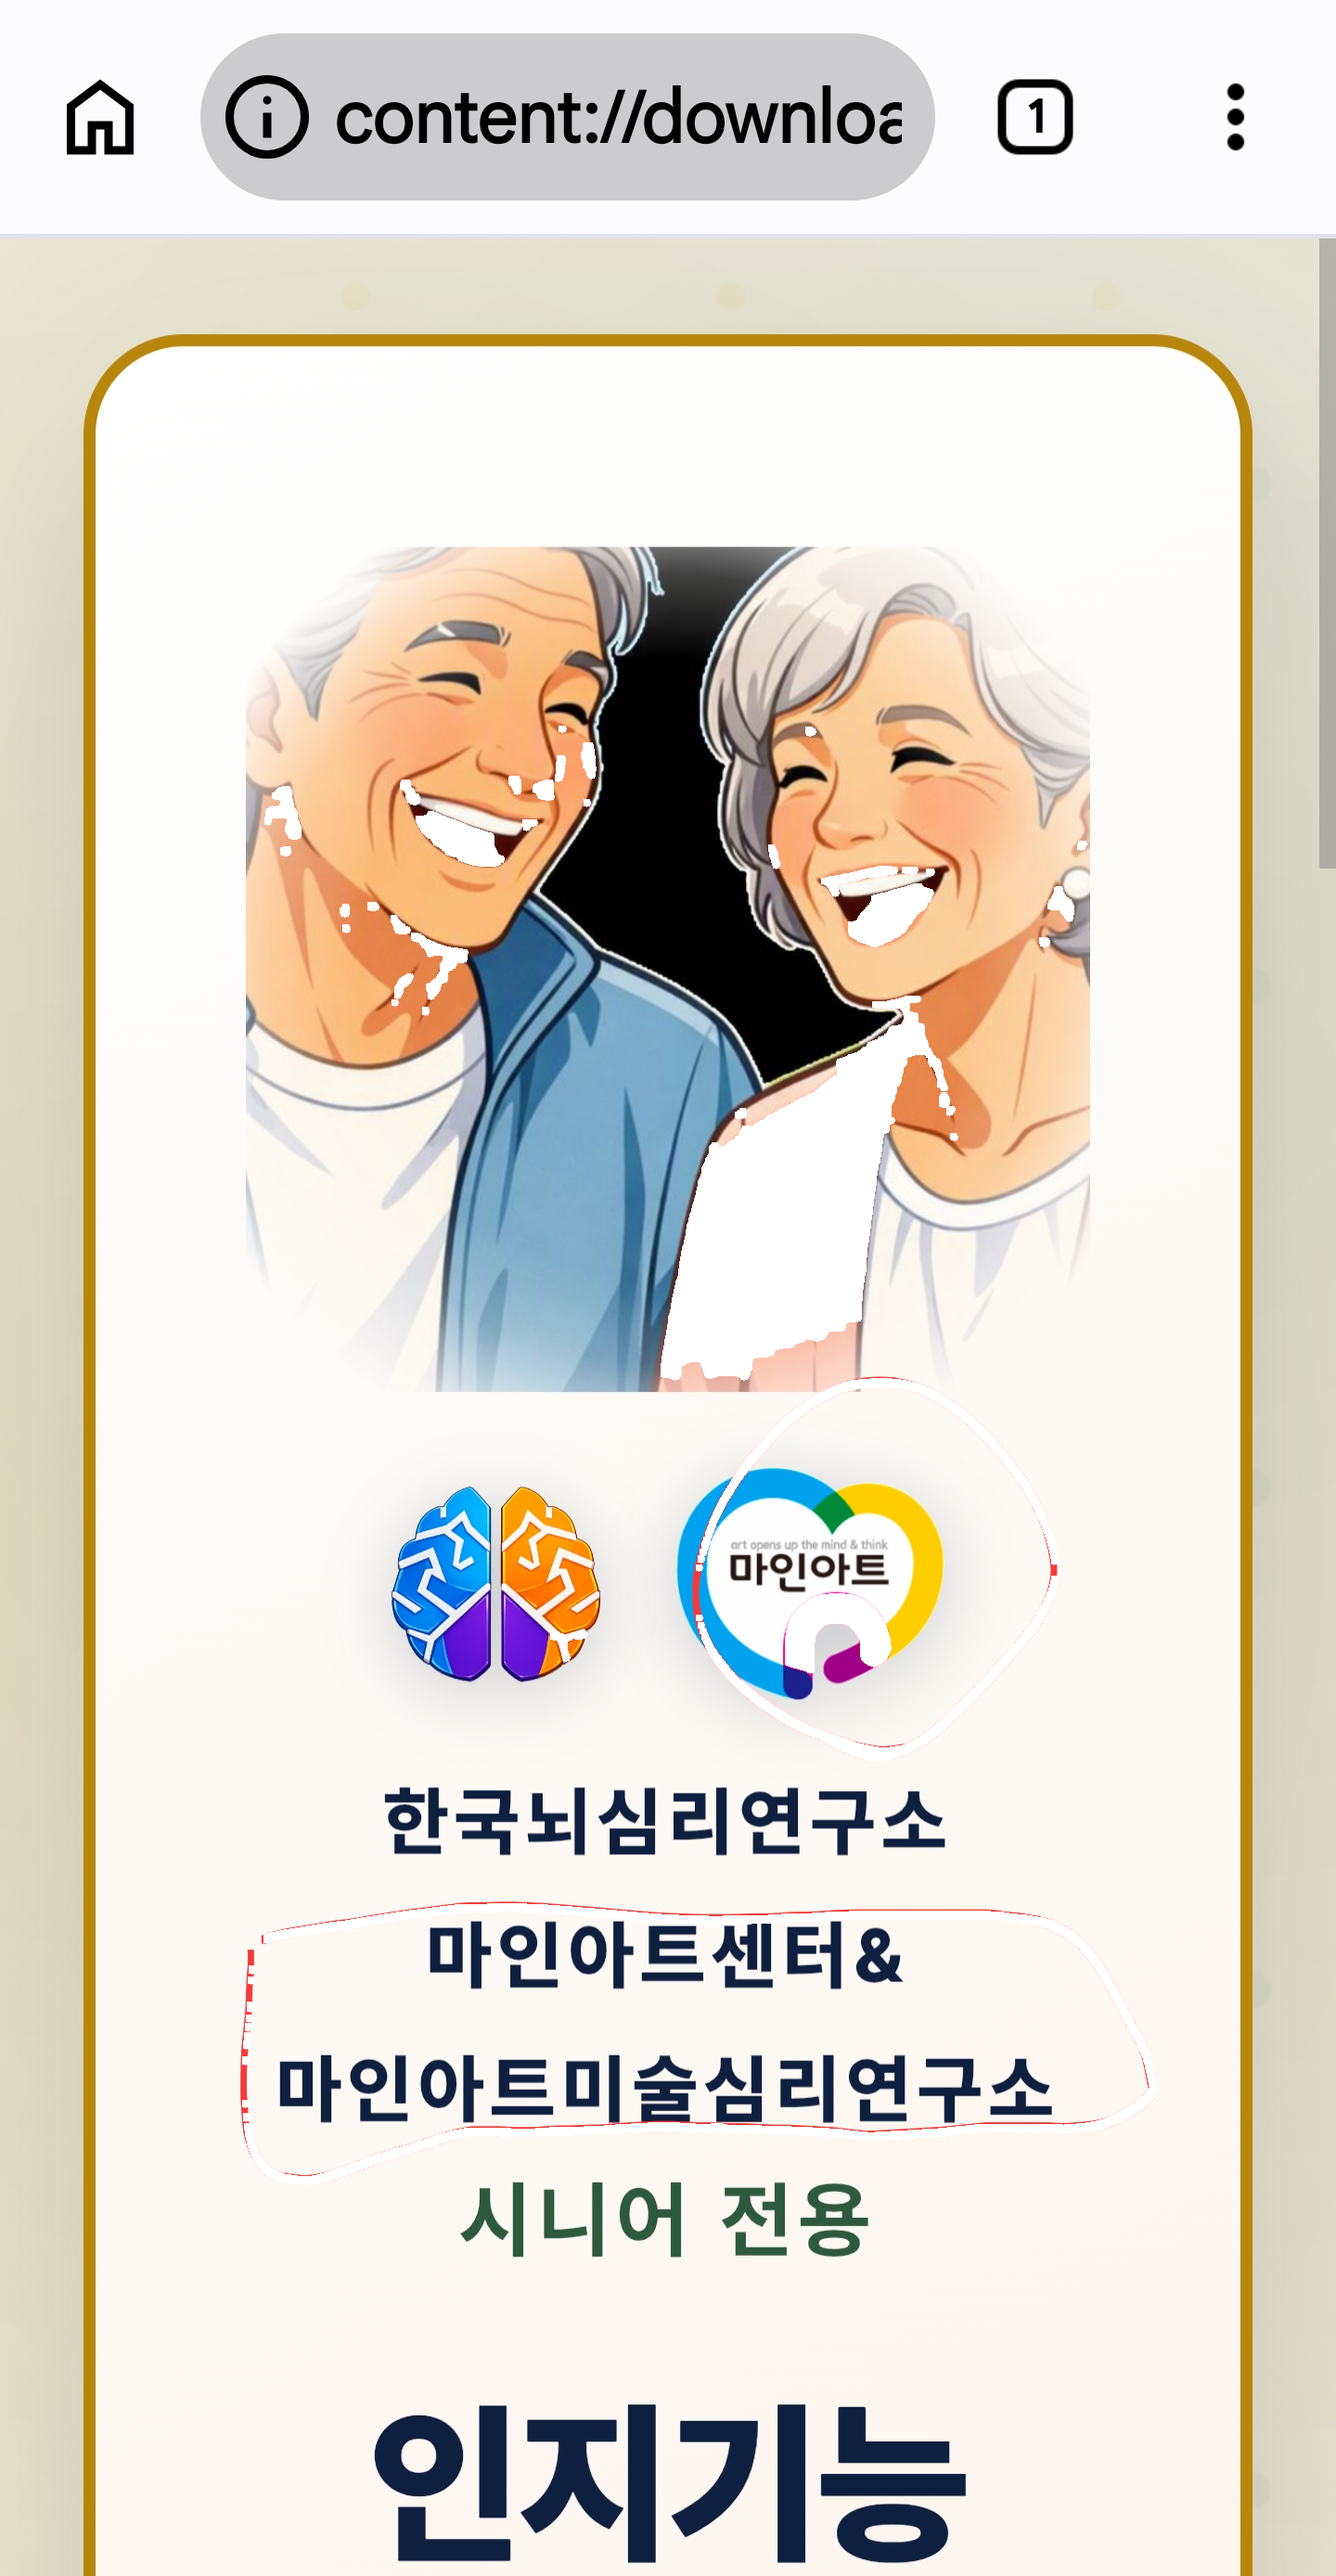
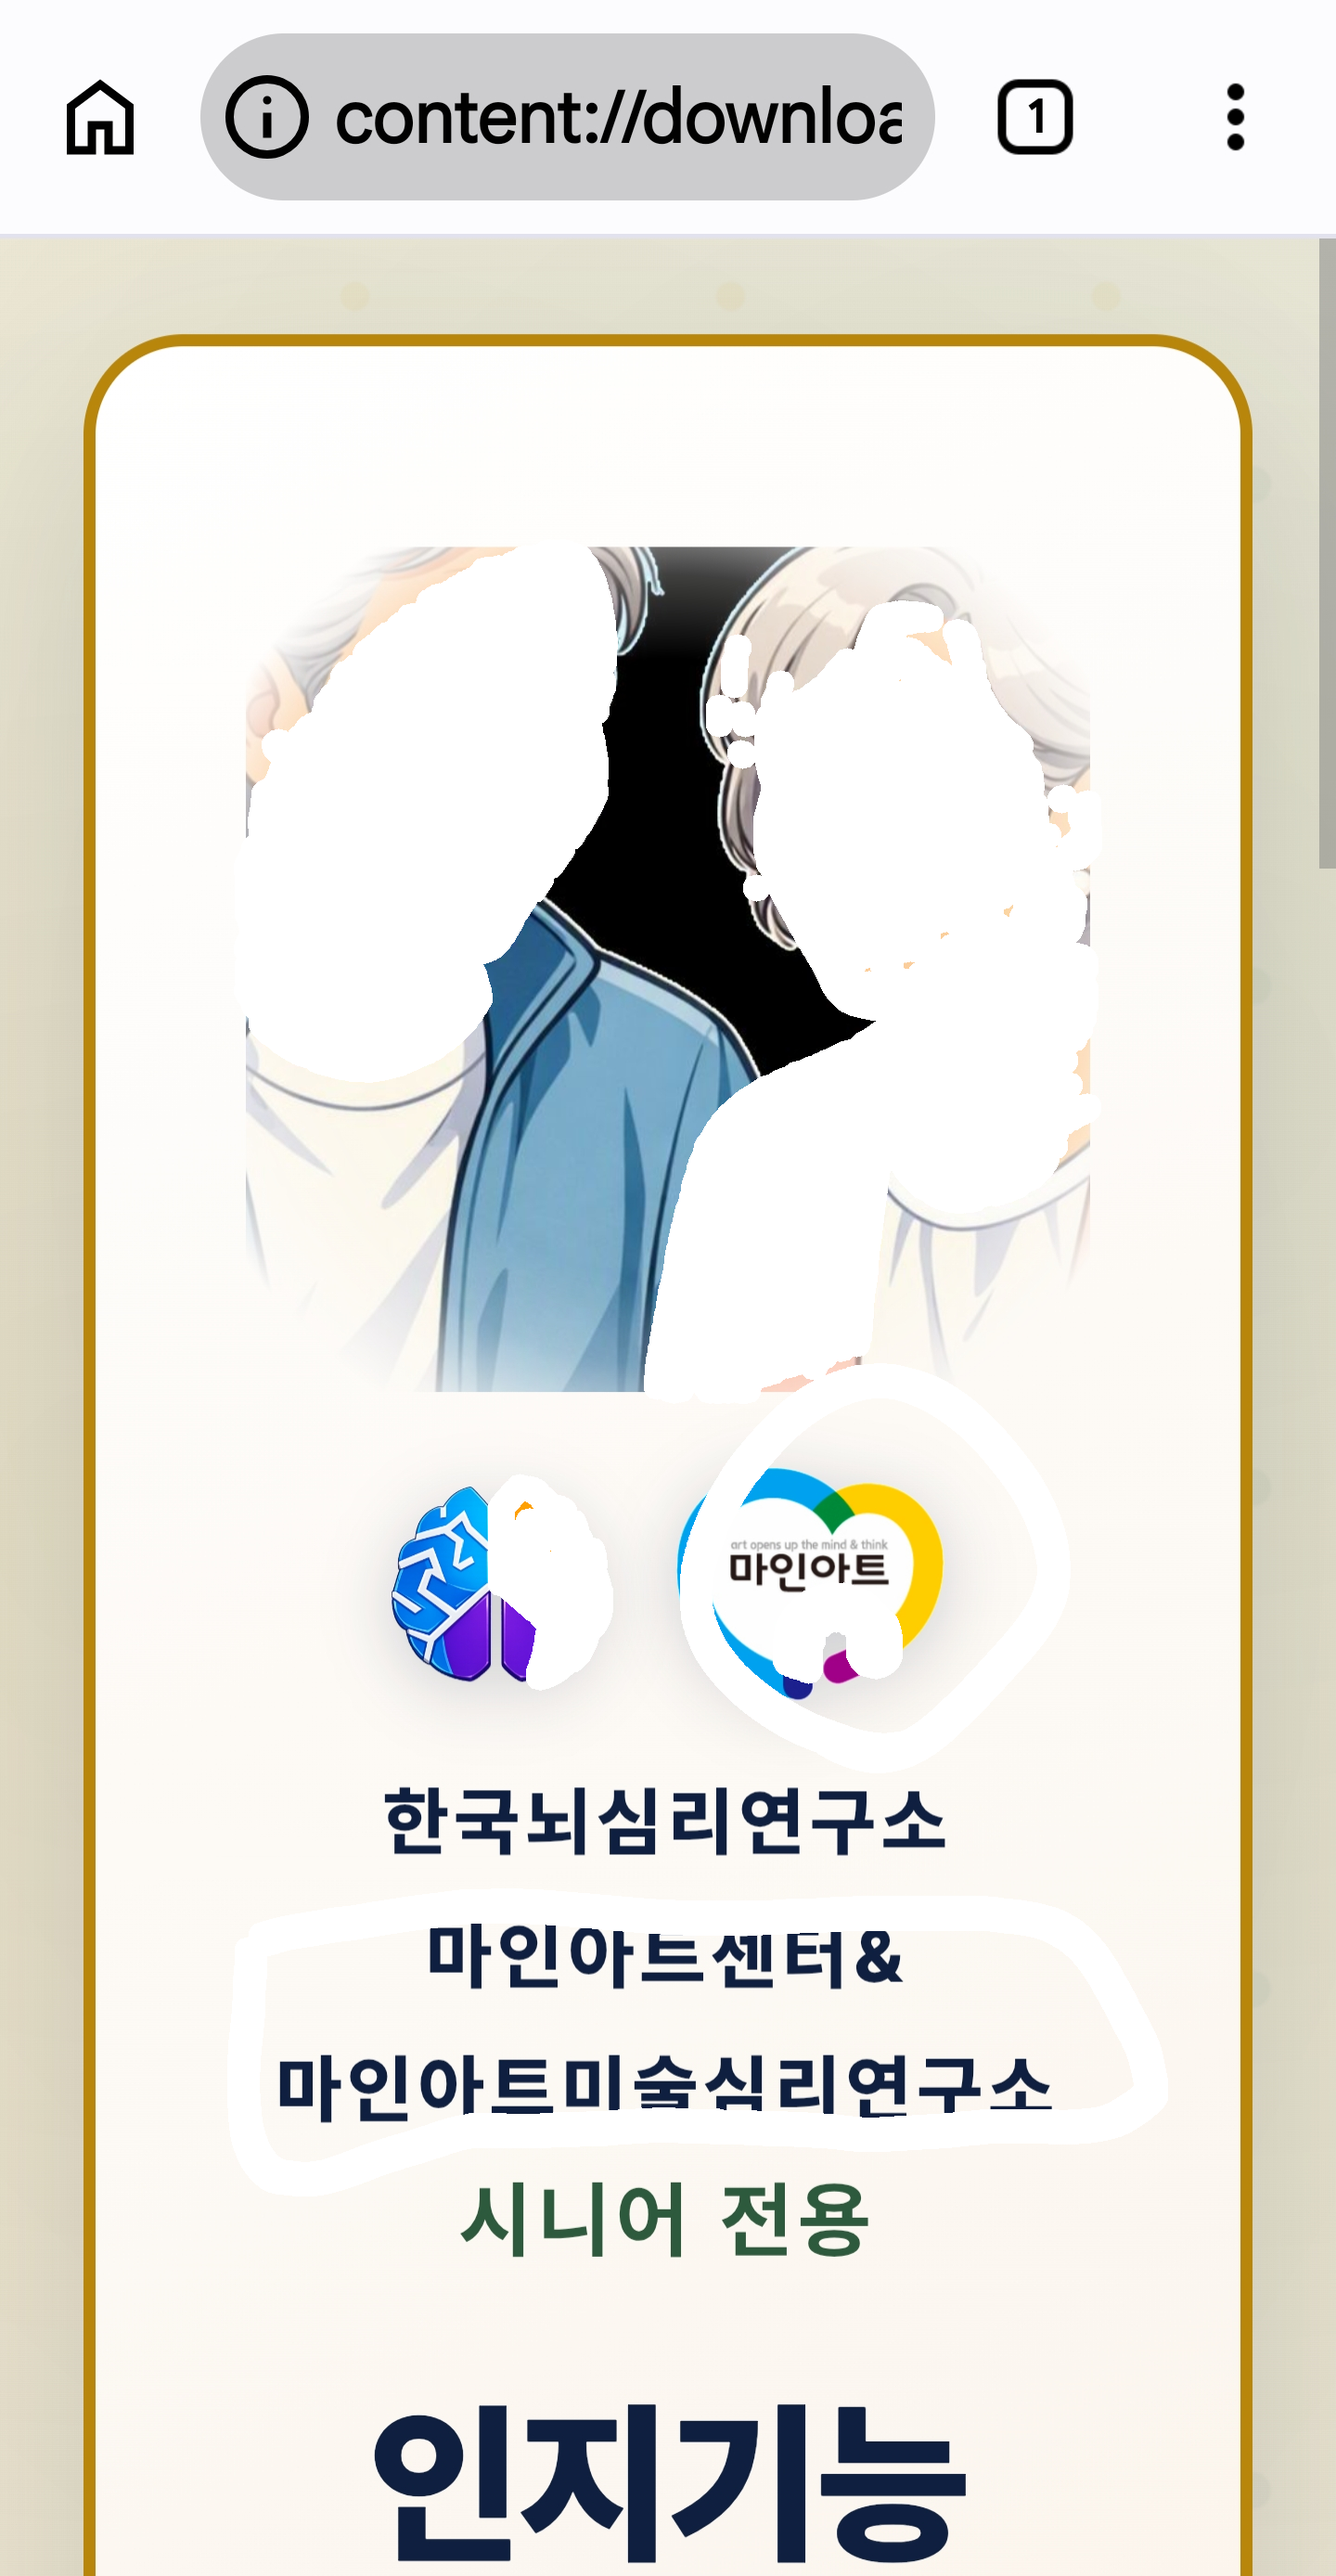
🔗 홈페이지 SCS 시스템 링크 추가 - 시니어인지시스템 항목 추가 (5번째) - senior-cognitive-health-check.html 링크 연결 - SCS 소개 이미지 (빨간원 완전 제거) 추가

diff --git a/index.html b/index.html
@@ -292,6 +292,11 @@
           <div class="hl-target">직장인 · 기업</div>
           <a href="#systems">자세히 보기 →</a>
         </div>
+        <div class="hl-item">
+          <div class="hl-top"><span class="hl-dot"><img loading="lazy" width="300" height="282" decoding="async" src="scs-senior-intro.png" alt="시니어인지시스템"></span><span class="hl-name">시니어인지</span></div>
+          <div class="hl-target">55세 이상 · 인지건강</div>
+          <a href="senior-cognitive-health-check.html">자세히 보기 →</a>
+        </div>
       </div>
     </div>
   </div>
